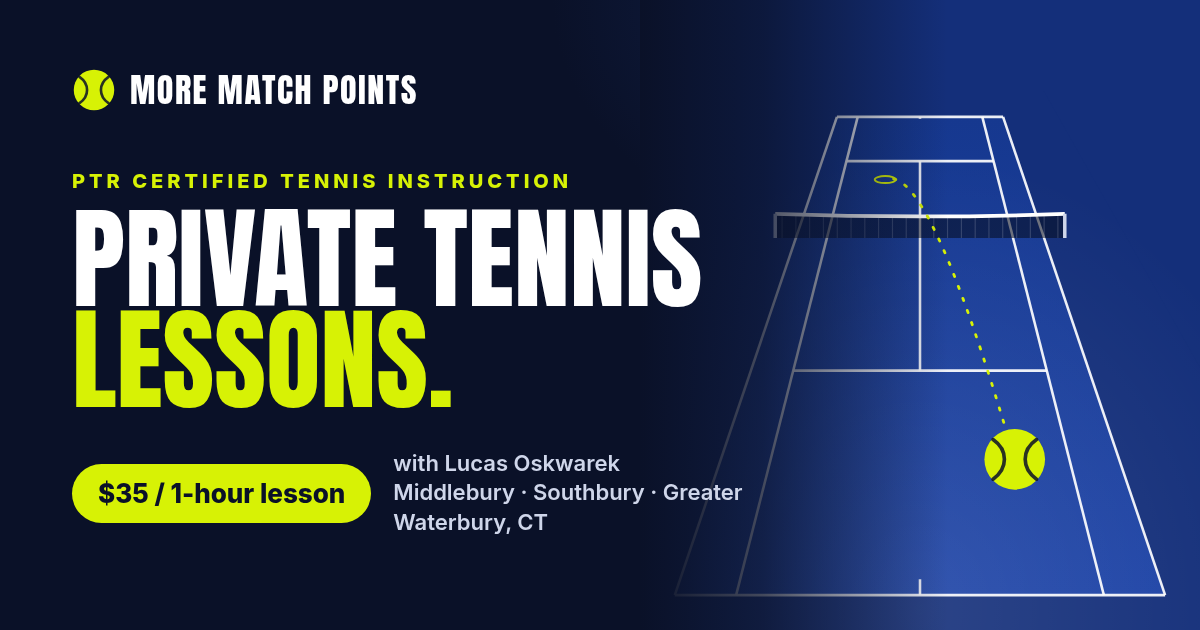
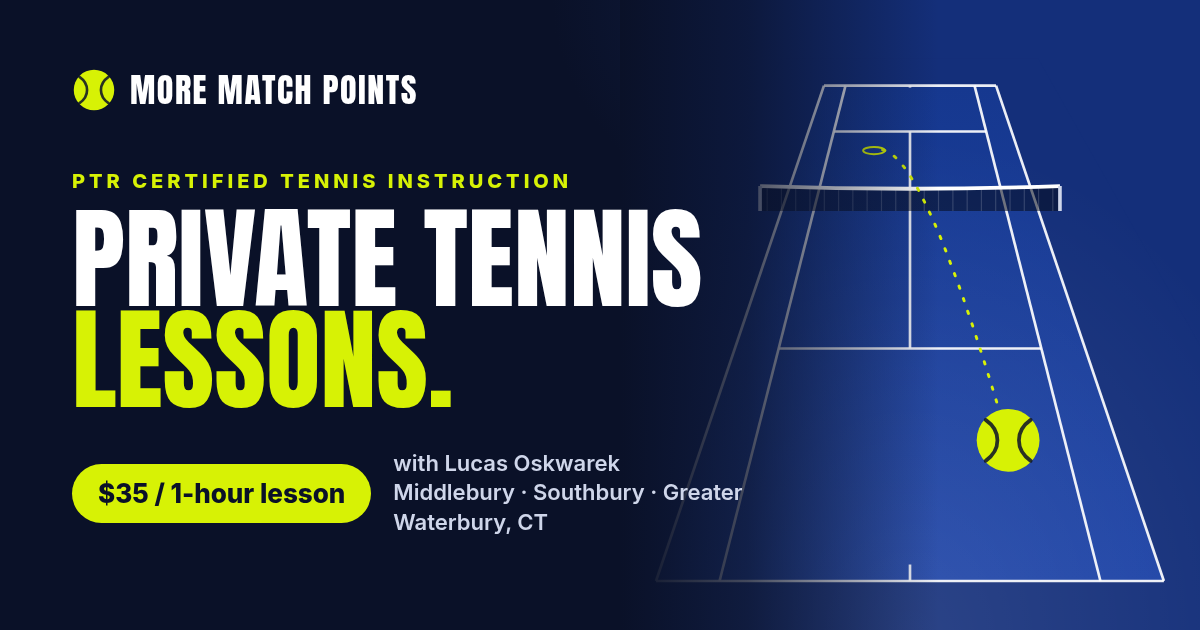
Court art: 480x600 canvas

diff --git a/index.html b/index.html
@@ -319,7 +319,7 @@ input:focus-visible,select:focus-visible,textarea:focus-visible{outline:none}
 <div class="ctas"><a class="btn optic" href="#request">Request a lesson <svg class="arr" viewBox="0 0 24 24" aria-hidden="true" focusable="false"><path d="M5 12h13M13 6l6 6-6 6" fill="none" stroke="currentColor" stroke-width="2.4" stroke-linecap="round" stroke-linejoin="round"/></svg></a><a class="btn line" href="#pricing">$35 / hour</a></div>
 <p class="meta-row"><span class="m-price">$35 / 1-hour lesson</span><span>Flexible scheduling</span><span>All skill levels welcome</span><span>Middlebury · Southbury · Greater Waterbury, CT</span></p>
 </div>
-<figure class="hero-art"><svg class="court" viewBox="0 0 480 560" aria-hidden="true" focusable="false" preserveAspectRatio="xMidYMid slice"><defs><linearGradient id="cg" x1="0" y1="0" x2="0" y2="1"><stop offset="0" stop-color="#16388f"/><stop offset="1" stop-color="#1d43a6"/></linearGradient><radialGradient id="glow" cx=".5" cy=".95" r=".7"><stop offset="0" stop-color="#ffffff" stop-opacity=".10"/><stop offset="1" stop-color="#ffffff" stop-opacity="0"/></radialGradient></defs><rect width="480" height="560" fill="#142f7a"/><path d="M-298.8 854.1L778.8 854.1L346.1 87.9L133.9 87.9Z" fill="#142f7a"/><path d="M29.8 520.1L450.1 520.1L311.2 110.2L168.8 110.2Z" fill="url(#cg)"/><rect width="480" height="560" fill="url(#glow)"/><g class="lines"><path class="ln" pathLength="1" d="M29.8 520.1L168.8 110.2"/><path class="ln" pathLength="1" d="M82.4 520.1L186.6 110.2"/><path class="ln" pathLength="1" d="M397.6 520.1L293.4 110.2"/><path class="ln" pathLength="1" d="M450.1 520.1L311.2 110.2"/><path class="ln" pathLength="1" d="M29.8 520.1L450.1 520.1"/><path class="ln" pathLength="1" d="M168.8 110.2L311.2 110.2"/><path class="ln" pathLength="1" d="M131.3 327.7L348.7 327.7"/><path class="ln" pathLength="1" d="M177.0 148.1L303.0 148.1"/><path class="ln" pathLength="1" d="M240.0 327.7L240.0 148.1"/><path class="ln" pathLength="1" d="M240.0 520.1L240.0 506.5"/><path class="ln" pathLength="1" d="M240.0 110.2L240.0 111.8"/></g><g class="net"><path class="netfill" d="M115.9 214.0L364.1 214.0L364.1 193.3Q240.0 197.8 115.9 193.3Z"/><path class="mesh" pathLength="1" d="M121.8 214.0L121.8 195.1"/><path class="mesh" pathLength="1" d="M133.6 214.0L133.6 195.1"/><path class="mesh" pathLength="1" d="M145.4 214.0L145.4 195.1"/><path class="mesh" pathLength="1" d="M157.2 214.0L157.2 195.1"/><path class="mesh" pathLength="1" d="M169.1 214.0L169.1 195.1"/><path class="mesh" pathLength="1" d="M180.9 214.0L180.9 195.1"/><path class="mesh" pathLength="1" d="M192.7 214.0L192.7 195.1"/><path class="mesh" pathLength="1" d="M204.5 214.0L204.5 195.1"/><path class="mesh" pathLength="1" d="M216.4 214.0L216.4 195.1"/><path class="mesh" pathLength="1" d="M228.2 214.0L228.2 195.1"/><path class="mesh" pathLength="1" d="M240.0 214.0L240.0 195.1"/><path class="mesh" pathLength="1" d="M251.8 214.0L251.8 195.1"/><path class="mesh" pathLength="1" d="M263.6 214.0L263.6 195.1"/><path class="mesh" pathLength="1" d="M275.5 214.0L275.5 195.1"/><path class="mesh" pathLength="1" d="M287.3 214.0L287.3 195.1"/><path class="mesh" pathLength="1" d="M299.1 214.0L299.1 195.1"/><path class="mesh" pathLength="1" d="M310.9 214.0L310.9 195.1"/><path class="mesh" pathLength="1" d="M322.8 214.0L322.8 195.1"/><path class="mesh" pathLength="1" d="M334.6 214.0L334.6 195.1"/><path class="mesh" pathLength="1" d="M346.4 214.0L346.4 195.1"/><path class="mesh" pathLength="1" d="M358.2 214.0L358.2 195.1"/><path class="tape" pathLength="1" d="M115.9 193.3Q240.0 197.8 364.1 193.3"/><path class="post" d="M115.9 193.3L115.9 214.0M364.1 193.3L364.1 214.0"/></g><path class="arc" d="M321.2 403.7L315.7 385.0L310.4 367.6L305.4 351.3L300.7 336.2L296.1 322.0L291.8 308.8L287.6 296.5L283.7 285.0L279.9 274.3L276.2 264.3L272.7 255.0L269.4 246.3L266.2 238.2L263.1 230.7L260.1 223.7L257.2 217.3L254.4 211.3L251.7 205.8L249.2 200.7L246.7 196.0L244.3 191.7L241.9 187.8L239.7 184.2L237.5 180.9L235.4 178.0L233.3 175.4L231.4 173.0L229.4 171.0L227.6 169.2L225.8 167.6L224.0 166.3L222.3 165.2L220.6 164.4L219.0 163.8L217.4 163.3L215.9 163.1L214.4 163.0L213.0 163.1L211.6 163.4L210.2 163.9"/><ellipse class="bounce" cx="210.2" cy="163.9" rx="9" ry="3"/><g class="ball"><circle cx="321.2" cy="403.7" r="26.0" fill="#d7f205"/><g fill="none" stroke="#0a1128" stroke-width="3.11" stroke-linecap="round" opacity=".85"><path d="M302.6 386.8C315.6 395.8 315.6 411.6 302.6 420.7"/><path d="M339.9 386.8C326.9 395.8 326.9 411.6 339.9 420.7"/></g></g></svg><figcaption class="art-tag"><span>1-on-1</span> Private lessons</figcaption></figure>
+<figure class="hero-art"><svg class="court" viewBox="0 0 480 600" aria-hidden="true" focusable="false" preserveAspectRatio="xMidYMid slice"><defs><linearGradient id="cg" x1="0" y1="0" x2="0" y2="1"><stop offset="0" stop-color="#16388f"/><stop offset="1" stop-color="#1d43a6"/></linearGradient><radialGradient id="glow" cx=".5" cy=".95" r=".7"><stop offset="0" stop-color="#ffffff" stop-opacity=".10"/><stop offset="1" stop-color="#ffffff" stop-opacity="0"/></radialGradient></defs><rect width="480" height="600" fill="#142f7a"/><path d="M-298.8 854.1L778.8 854.1L346.1 87.9L133.9 87.9Z" fill="#142f7a"/><path d="M29.8 520.1L450.1 520.1L311.2 110.2L168.8 110.2Z" fill="url(#cg)"/><rect width="480" height="600" fill="url(#glow)"/><g class="lines"><path class="ln" pathLength="1" d="M29.8 520.1L168.8 110.2"/><path class="ln" pathLength="1" d="M82.4 520.1L186.6 110.2"/><path class="ln" pathLength="1" d="M397.6 520.1L293.4 110.2"/><path class="ln" pathLength="1" d="M450.1 520.1L311.2 110.2"/><path class="ln" pathLength="1" d="M29.8 520.1L450.1 520.1"/><path class="ln" pathLength="1" d="M168.8 110.2L311.2 110.2"/><path class="ln" pathLength="1" d="M131.3 327.7L348.7 327.7"/><path class="ln" pathLength="1" d="M177.0 148.1L303.0 148.1"/><path class="ln" pathLength="1" d="M240.0 327.7L240.0 148.1"/><path class="ln" pathLength="1" d="M240.0 520.1L240.0 506.5"/><path class="ln" pathLength="1" d="M240.0 110.2L240.0 111.8"/></g><g class="net"><path class="netfill" d="M115.9 214.0L364.1 214.0L364.1 193.3Q240.0 197.8 115.9 193.3Z"/><path class="mesh" pathLength="1" d="M121.8 214.0L121.8 195.1"/><path class="mesh" pathLength="1" d="M133.6 214.0L133.6 195.1"/><path class="mesh" pathLength="1" d="M145.4 214.0L145.4 195.1"/><path class="mesh" pathLength="1" d="M157.2 214.0L157.2 195.1"/><path class="mesh" pathLength="1" d="M169.1 214.0L169.1 195.1"/><path class="mesh" pathLength="1" d="M180.9 214.0L180.9 195.1"/><path class="mesh" pathLength="1" d="M192.7 214.0L192.7 195.1"/><path class="mesh" pathLength="1" d="M204.5 214.0L204.5 195.1"/><path class="mesh" pathLength="1" d="M216.4 214.0L216.4 195.1"/><path class="mesh" pathLength="1" d="M228.2 214.0L228.2 195.1"/><path class="mesh" pathLength="1" d="M240.0 214.0L240.0 195.1"/><path class="mesh" pathLength="1" d="M251.8 214.0L251.8 195.1"/><path class="mesh" pathLength="1" d="M263.6 214.0L263.6 195.1"/><path class="mesh" pathLength="1" d="M275.5 214.0L275.5 195.1"/><path class="mesh" pathLength="1" d="M287.3 214.0L287.3 195.1"/><path class="mesh" pathLength="1" d="M299.1 214.0L299.1 195.1"/><path class="mesh" pathLength="1" d="M310.9 214.0L310.9 195.1"/><path class="mesh" pathLength="1" d="M322.8 214.0L322.8 195.1"/><path class="mesh" pathLength="1" d="M334.6 214.0L334.6 195.1"/><path class="mesh" pathLength="1" d="M346.4 214.0L346.4 195.1"/><path class="mesh" pathLength="1" d="M358.2 214.0L358.2 195.1"/><path class="tape" pathLength="1" d="M115.9 193.3Q240.0 197.8 364.1 193.3"/><path class="post" d="M115.9 193.3L115.9 214.0M364.1 193.3L364.1 214.0"/></g><path class="arc" d="M321.2 403.7L315.7 385.0L310.4 367.6L305.4 351.3L300.7 336.2L296.1 322.0L291.8 308.8L287.6 296.5L283.7 285.0L279.9 274.3L276.2 264.3L272.7 255.0L269.4 246.3L266.2 238.2L263.1 230.7L260.1 223.7L257.2 217.3L254.4 211.3L251.7 205.8L249.2 200.7L246.7 196.0L244.3 191.7L241.9 187.8L239.7 184.2L237.5 180.9L235.4 178.0L233.3 175.4L231.4 173.0L229.4 171.0L227.6 169.2L225.8 167.6L224.0 166.3L222.3 165.2L220.6 164.4L219.0 163.8L217.4 163.3L215.9 163.1L214.4 163.0L213.0 163.1L211.6 163.4L210.2 163.9"/><ellipse class="bounce" cx="210.2" cy="163.9" rx="9" ry="3"/><g class="ball"><circle cx="321.2" cy="403.7" r="26.0" fill="#d7f205"/><g fill="none" stroke="#0a1128" stroke-width="3.11" stroke-linecap="round" opacity=".85"><path d="M302.6 386.8C315.6 395.8 315.6 411.6 302.6 420.7"/><path d="M339.9 386.8C326.9 395.8 326.9 411.6 339.9 420.7"/></g></g></svg><figcaption class="art-tag"><span>1-on-1</span> Private lessons</figcaption></figure>
 </div></section>
 <section class="stats" id="credentials" aria-labelledby="cred-title"><div class="wrap">
 <h2 id="cred-title" class="sr">Why train with Lucas</h2>

diff --git a/tools/art.py b/tools/art.py
@@ -33,7 +33,7 @@ def ball(cx, cy, r, fill=OPTIC, seam=NAVY, sw=None):
 
 
 def court_svg(cls='court', title=None, ball_on=True):
-    """Portrait perspective court, viewBox 0 0 480 560."""
+    """Portrait perspective court, viewBox 0 0 480 600."""
     out = _poly([(-30, -14), (30, -14), (30, 92), (-30, 92)])
     surf = _poly([(-18, 0), (18, 0), (18, 78), (-18, 78)])
     L = []
@@ -73,13 +73,13 @@ def court_svg(cls='court', title=None, ball_on=True):
                f'<g class="ball">{ball(pts[0][0], pts[0][1], 26)}</g>')
     t = f'<title>{title}</title>' if title else ''
     role = 'role="img" aria-label="' + title + '"' if title else 'aria-hidden="true" focusable="false"'
-    return (f'<svg class="{cls}" viewBox="0 0 480 560" {role} preserveAspectRatio="xMidYMid slice">{t}'
+    return (f'<svg class="{cls}" viewBox="0 0 480 600" {role} preserveAspectRatio="xMidYMid slice">{t}'
             f'<defs><linearGradient id="cg" x1="0" y1="0" x2="0" y2="1"><stop offset="0" stop-color="#16388f"/>'
             f'<stop offset="1" stop-color="{COURT}"/></linearGradient>'
             f'<radialGradient id="glow" cx=".5" cy=".95" r=".7"><stop offset="0" stop-color="#ffffff" stop-opacity=".10"/>'
             f'<stop offset="1" stop-color="#ffffff" stop-opacity="0"/></radialGradient></defs>'
-            f'<rect width="480" height="560" fill="{COURT_OUT}"/><path d="{out}" fill="{COURT_OUT}"/>'
-            f'<path d="{surf}" fill="url(#cg)"/><rect width="480" height="560" fill="url(#glow)"/>'
+            f'<rect width="480" height="600" fill="{COURT_OUT}"/><path d="{out}" fill="{COURT_OUT}"/>'
+            f'<path d="{surf}" fill="url(#cg)"/><rect width="480" height="600" fill="url(#glow)"/>'
             f'<g class="lines">{"".join(L)}</g><g class="net">{net}</g>{art}</svg>')
 
 

diff --git a/tools/make_brand.py b/tools/make_brand.py
@@ -30,7 +30,7 @@ def og_html():
     return f'''<!doctype html><html><head><meta charset="utf-8"><style>{FONTS}
 html,body{{margin:0;width:1200px;height:630px;overflow:hidden}}
 body{{background:radial-gradient(90% 90% at 100% 0%,#18306f 0%,{NAVY} 60%);color:{WHITE};font-family:Inter,sans-serif;position:relative}}
-.art{{position:absolute;right:0;top:0;width:560px;height:630px;overflow:hidden}}
+.art{{position:absolute;right:0;top:0;width:580px;height:630px;overflow:hidden}}
 .art svg{{width:100%;height:100%}}
 .art::after{{content:"";position:absolute;inset:0;background:linear-gradient(90deg,{NAVY} 0%,rgba(10,17,40,.75) 22%,rgba(10,17,40,0) 55%)}}
 .court .ln{{fill:none;stroke:#fff;stroke-width:2.2;opacity:.92}}.court .mesh{{stroke:#fff;stroke-opacity:.16}}
